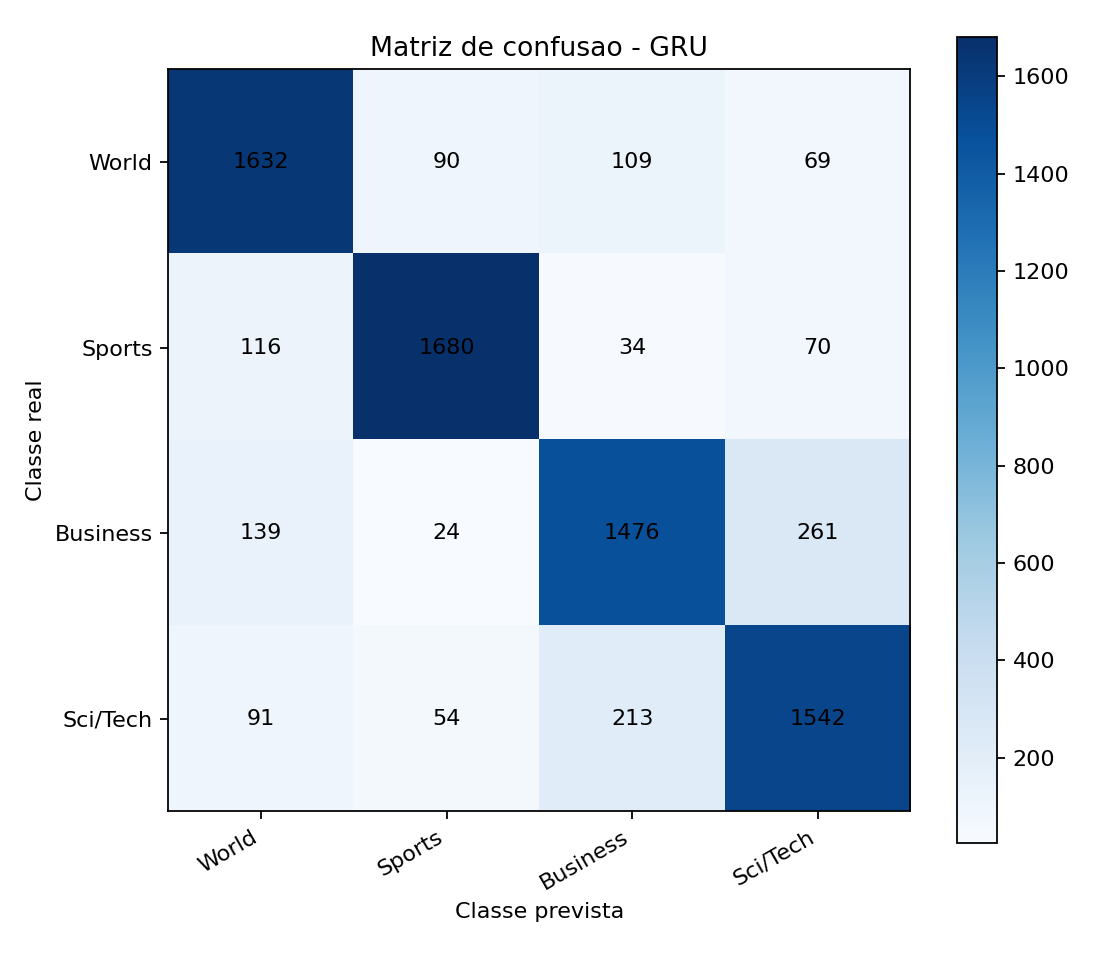
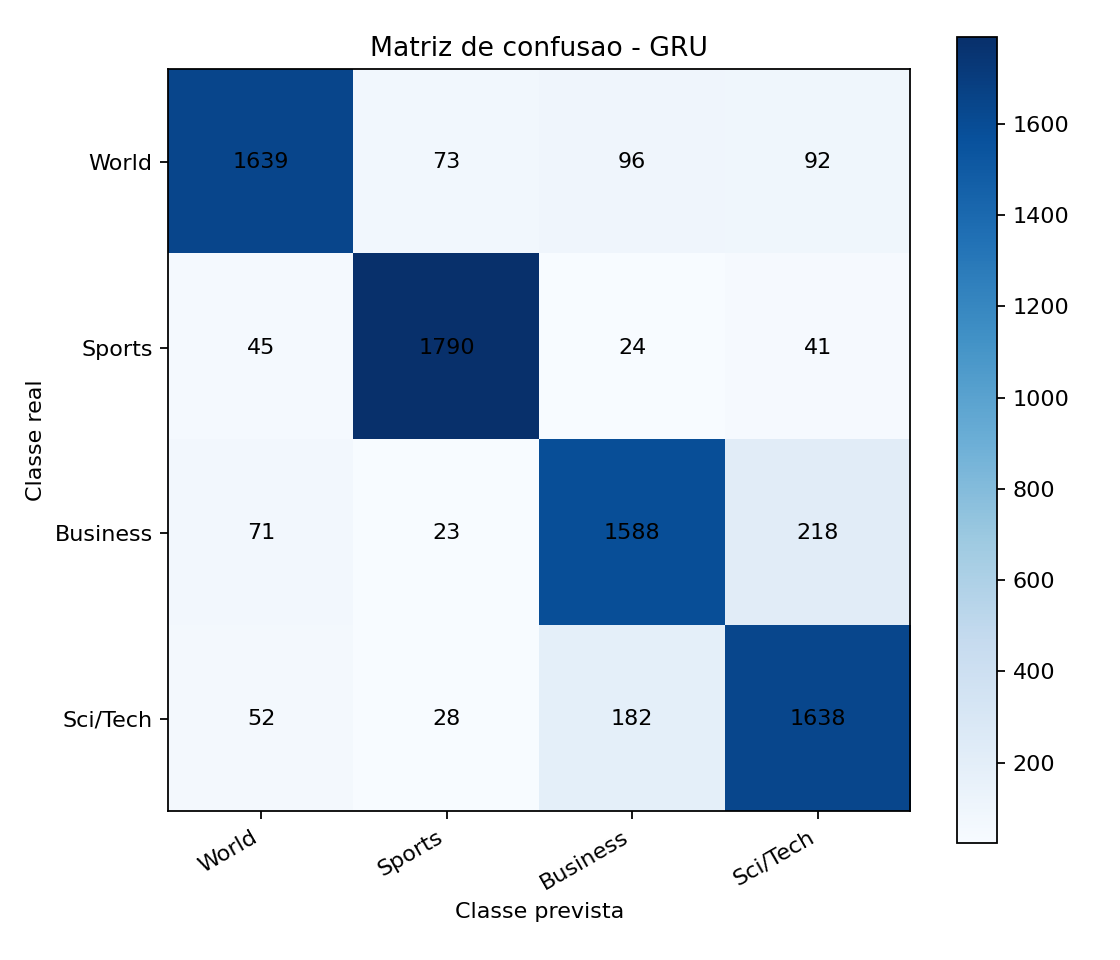
Retreina GRU com 10 epocas em GPU

diff --git a/src/models/deep_learning_gru.py b/src/models/deep_learning_gru.py
@@ -250,7 +250,7 @@ def save_model(model: nn.Module, vocab: dict[str, int], config: dict) -> None:
 
 def parse_args() -> argparse.Namespace:
     parser = argparse.ArgumentParser(description="Treina um modelo GRU para classificar noticias AG News.")
-    parser.add_argument("--epochs", type=int, default=3)
+    parser.add_argument("--epochs", type=int, default=10)
     parser.add_argument("--batch-size", type=int, default=256)
     parser.add_argument("--max-vocab-size", type=int, default=30000)
     parser.add_argument("--max-length", type=int, default=80)

diff --git a/reports/sprint_p3_2_avaliacao_comparacao.md b/reports/sprint_p3_2_avaliacao_comparacao.md
@@ -26,24 +26,25 @@ São gerados:
 
 | Parâmetro | Valor |
 | --- | ---: |
-| Épocas | 3 |
-| Amostras de treino usadas | 20.000 |
+| Épocas | 10 |
+| Amostras de treino usadas | 40.000 |
 | Tamanho máximo da sequência | 80 tokens |
-| Tamanho do vocabulário | 20.000 |
+| Tamanho do vocabulário | 30.000 |
 | Embedding | 128 |
 | Camada GRU | 96 unidades |
+| Dispositivo | GPU CUDA |
 
 ## Resultado do GRU no teste
 
 | Classe | Precision | Recall | F1-score |
 | --- | ---: | ---: | ---: |
-| World | 0,8251 | 0,8589 | 0,8417 |
-| Sports | 0,9091 | 0,8842 | 0,8965 |
-| Business | 0,8057 | 0,7768 | 0,7910 |
-| Sci/Tech | 0,7940 | 0,8116 | 0,8027 |
-| Média | 0,8335 | 0,8329 | 0,8330 |
+| World | 0,9070 | 0,8626 | 0,8843 |
+| Sports | 0,9352 | 0,9421 | 0,9386 |
+| Business | 0,8402 | 0,8358 | 0,8380 |
+| Sci/Tech | 0,8235 | 0,8621 | 0,8424 |
+| Média | 0,8765 | 0,8757 | 0,8758 |
 
-**Acurácia do GRU no teste:** 83,29%.
+**Acurácia do GRU no teste:** 87,57%.
 
 ## Baseline de referência
 
@@ -52,15 +53,15 @@ O baseline de referência é o LinearSVC da Pessoa 2.
 | Modelo | Referência |
 | --- | ---: |
 | LinearSVC | F1 médio próximo de 0,91 a 0,92 |
-| GRU | F1 médio de 0,8330 |
+| GRU | F1 médio de 0,8758 |
 
 ## Comparação
 
-O GRU ficou abaixo do baseline LinearSVC. Isso não invalida a entrega, porque o objetivo da Pessoa 3 era criar e avaliar um modelo de Deep Learning, mas mostra que o baseline tradicional ainda foi mais forte neste dataset.
+O GRU ficou abaixo do baseline LinearSVC, mas melhorou após o treinamento com GPU, 10 épocas e mais amostras. Isso mostra que o baseline tradicional ainda foi mais forte neste dataset, mas o modelo neural conseguiu um resultado competitivo.
 
 Possíveis motivos:
 
-- o GRU foi treinado com 20.000 exemplos para manter a execução leve;
+- mesmo com 40.000 exemplos, o baseline TF-IDF com LinearSVC é muito forte para textos curtos;
 - o TF-IDF com LinearSVC é um baseline muito forte para classificação de textos curtos;
 - mais épocas, mais dados ou um modelo Transformer poderiam melhorar o resultado;
 - Business e Sci/Tech continuam sendo as classes mais difíceis de separar.
@@ -79,11 +80,11 @@ Comparar principalmente:
 
 | Classe real | World | Sports | Business | Sci/Tech |
 | --- | ---: | ---: | ---: | ---: |
-| World | 1.632 | 90 | 109 | 69 |
-| Sports | 116 | 1.680 | 34 | 70 |
-| Business | 139 | 24 | 1.476 | 261 |
-| Sci/Tech | 91 | 54 | 213 | 1.542 |
+| World | 1.639 | 73 | 96 | 92 |
+| Sports | 45 | 1.790 | 24 | 41 |
+| Business | 71 | 23 | 1.588 | 218 |
+| Sci/Tech | 52 | 28 | 182 | 1.638 |
 
 ## Observação
 
-O modelo GRU não superou o baseline TF-IDF nesta execução, principalmente por ter sido treinado com uma amostra menor para economizar tempo. Mesmo assim, ele cumpre o objetivo da Pessoa 3 por usar uma arquitetura de Deep Learning e permitir comparação direta.
+O modelo GRU não superou o baseline TF-IDF nesta execução, mas melhorou bastante com GPU, mais épocas e mais dados. Ele cumpre o objetivo da Pessoa 3 por usar uma arquitetura de Deep Learning e permitir comparação direta.

diff --git a/reports/sprint_p3_1_modelo_deep_learning.md b/reports/sprint_p3_1_modelo_deep_learning.md
@@ -15,6 +15,18 @@ Essa opção foi usada porque:
 - ainda é um modelo de Deep Learning real;
 - consegue processar sequência de palavras, diferente do TF-IDF.
 
+## Configuração final
+
+| Item | Valor |
+| --- | ---: |
+| Épocas | 10 |
+| Amostras de treino | 40.000 |
+| Vocabulário | 30.000 tokens |
+| Embedding | 128 |
+| Hidden size | 96 |
+| Dropout | 0,3 |
+| Dispositivo | GPU CUDA |
+
 ## Script criado
 
 - `src/models/deep_learning_gru.py`

diff --git a/README.md b/README.md
@@ -176,9 +176,9 @@ O modelo de Deep Learning da Pessoa 3 foi uma **GRU bidirecional** em PyTorch.
 | Modelo | Acurácia | F1 médio |
 | --- | ---: | ---: |
 | LinearSVC baseline | 91,4% | 0,91 |
-| GRU Deep Learning | 83,29% | 0,8330 |
+| GRU Deep Learning | 87,57% | 0,8758 |
 
-O GRU não superou o baseline, mas completa a etapa de Deep Learning e permite comparar os dois tipos de abordagem.
+O GRU foi treinado novamente usando GPU CUDA, com 10 épocas e 40.000 amostras de treino. Ele não superou o baseline, mas melhorou em relação à execução anterior e completa a etapa de Deep Learning.
 
 ## Dados Processados
 